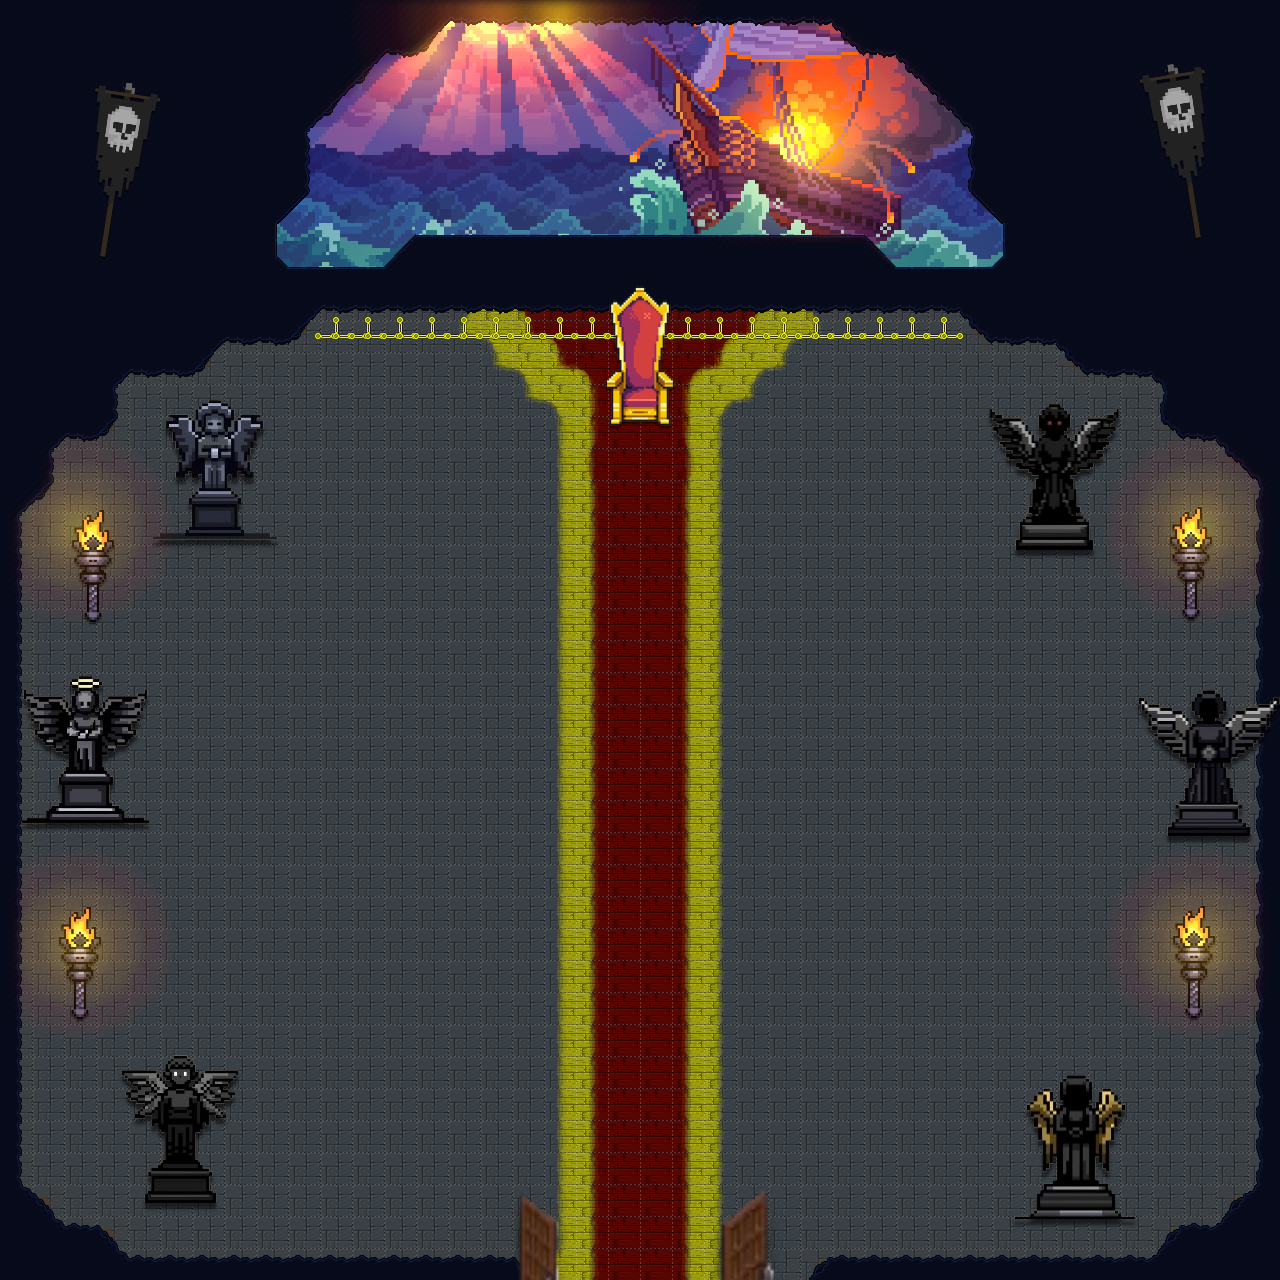
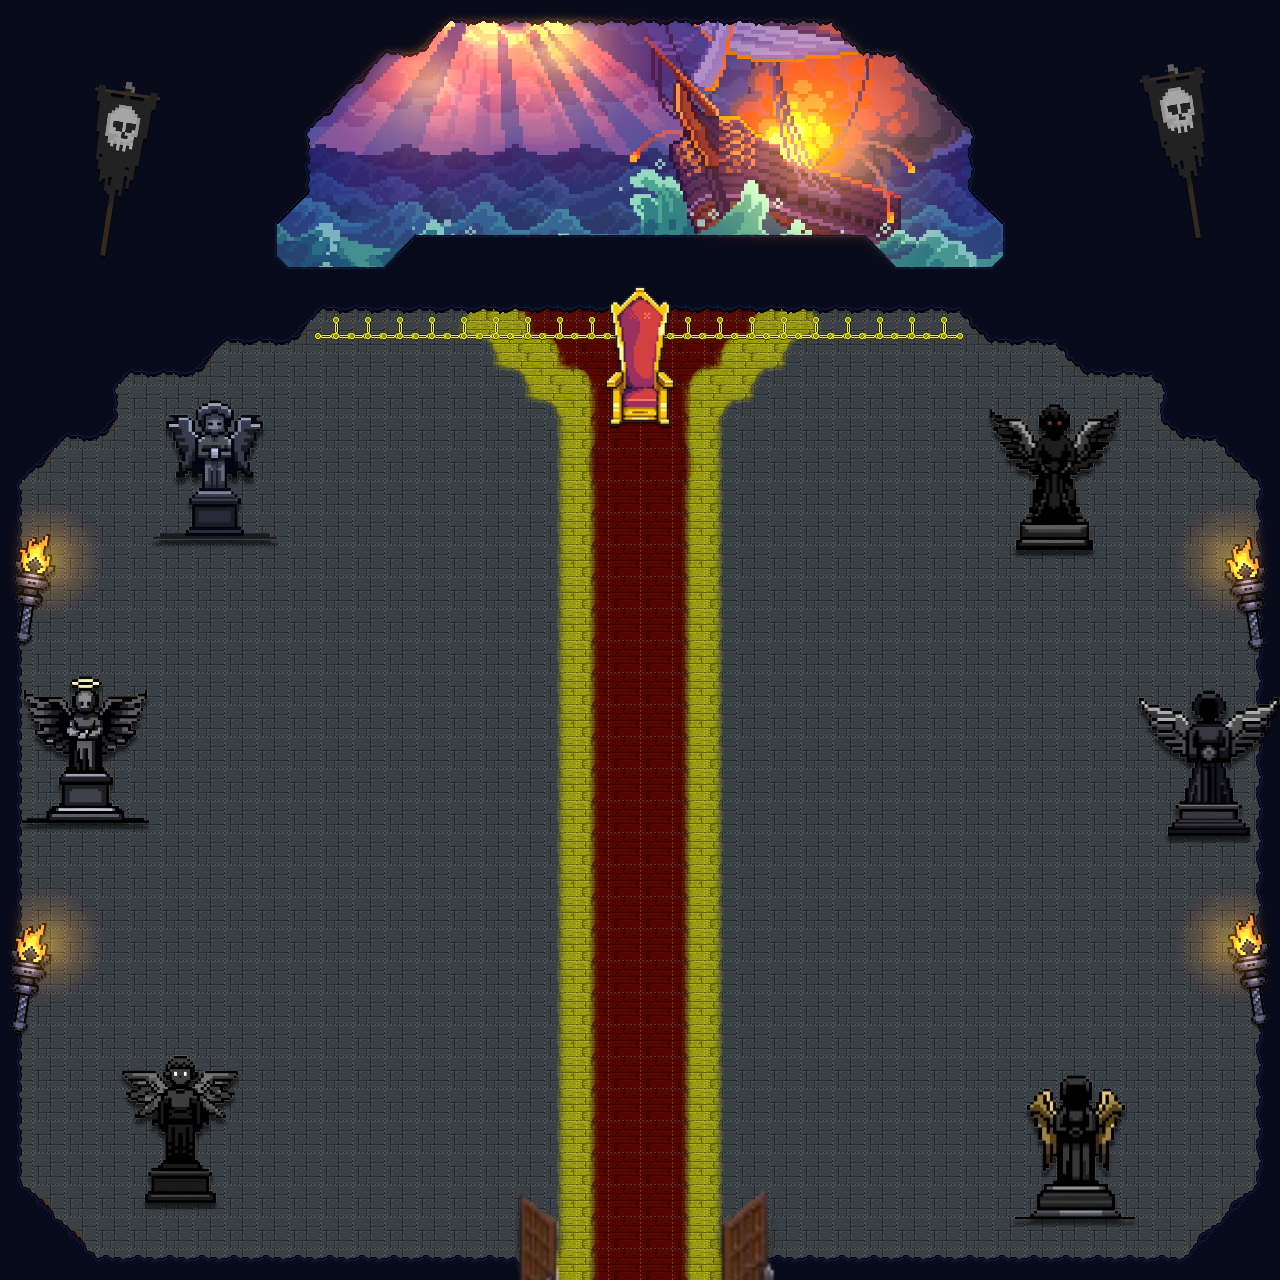
colisões interior da torre + mapa atualizado

diff --git a/Jogo Teste/jogo_OO.py b/Jogo Teste/jogo_OO.py
@@ -185,8 +185,10 @@ class Game:
             # Define as colisões do mapa atual
             if self.mapa_atual == "segundo mapa":
                 colisoes = colisoes_torre_final
-            else:
-                colisoes = []  # Sem colisões no primeiro mapa
+            if self.mapa_atual == "torre":
+                colisoes = colisoes_torre_interior
+            if self.mapa_atual == "primeiro mapa":
+                colisoes = colisoes_mapa_inicial
 
             self.player.move(keys, colisoes)
             self.player.draw(self.tela)
@@ -260,7 +262,7 @@ class Game:
 
         pygame.quit()
 
-# Áreas de colisão para o mapa "torre final"
+#colisões prontas
 colisoes_torre_final = [
     pygame.Rect(0, 0, 40, 165),  # Paredes rochosas superiores
     pygame.Rect(100, 0, 300, 60),  # Paredes rochosas superiores 2
@@ -275,6 +277,33 @@ colisoes_torre_final = [
     pygame.Rect(440, 770, 410, 100),  # Paredes rochosas inferiores 3
     pygame.Rect(240, 215, 8, 5),  # Esqueleto
     pygame.Rect(770, 450, 10, 20),  # Baú
+
+]
+
+#colisões prontas
+colisoes_torre_interior = [
+    pygame.Rect(0, 0, 1000, 200),  # Parede fundo
+    pygame.Rect(0, 210, 60, 30),  # Parede fundo esquerda
+    pygame.Rect(945, 210, 60, 30),  # Parede fundo direita
+    pygame.Rect(0, 0, 3, 800),  # Parede lateral esquerda
+    pygame.Rect(997, 0, 3, 800),  # Parede lateral direita
+    pygame.Rect(0, 750, 20, 50),  # Parede lateral direita
+    pygame.Rect(970, 750, 20, 50),  # Parede lateral direita
+    pygame.Rect(30, 795, 385, 3),  # Parede inferior esquerda
+    pygame.Rect(600, 795, 400, 3),  # Parede inferior direita
+    pygame.Rect(0, 850, 1000, 1),  # Barreira porta
+    pygame.Rect(140, 220, 30, 80),  # Estatua superior esquerda
+    pygame.Rect(800, 220, 30, 80),  # Estatua superior direita
+    pygame.Rect(20, 420, 60, 50),  # Estatua meio esquerda
+    pygame.Rect(920, 420, 30, 50),  # Estatua meio direita
+    pygame.Rect(135, 670, 30, 50),  # Estatua inferior esquerda
+    pygame.Rect(825, 670, 30, 50),  # Estatua inferior direita
+    pygame.Rect(490, 210, 20, 35),  # Trono
+    
+]
+
+colisoes_mapa_inicial = [
+    pygame.Rect(0, 0, 1, 800),  # Parede lateral esquerda
 
 ]
 
